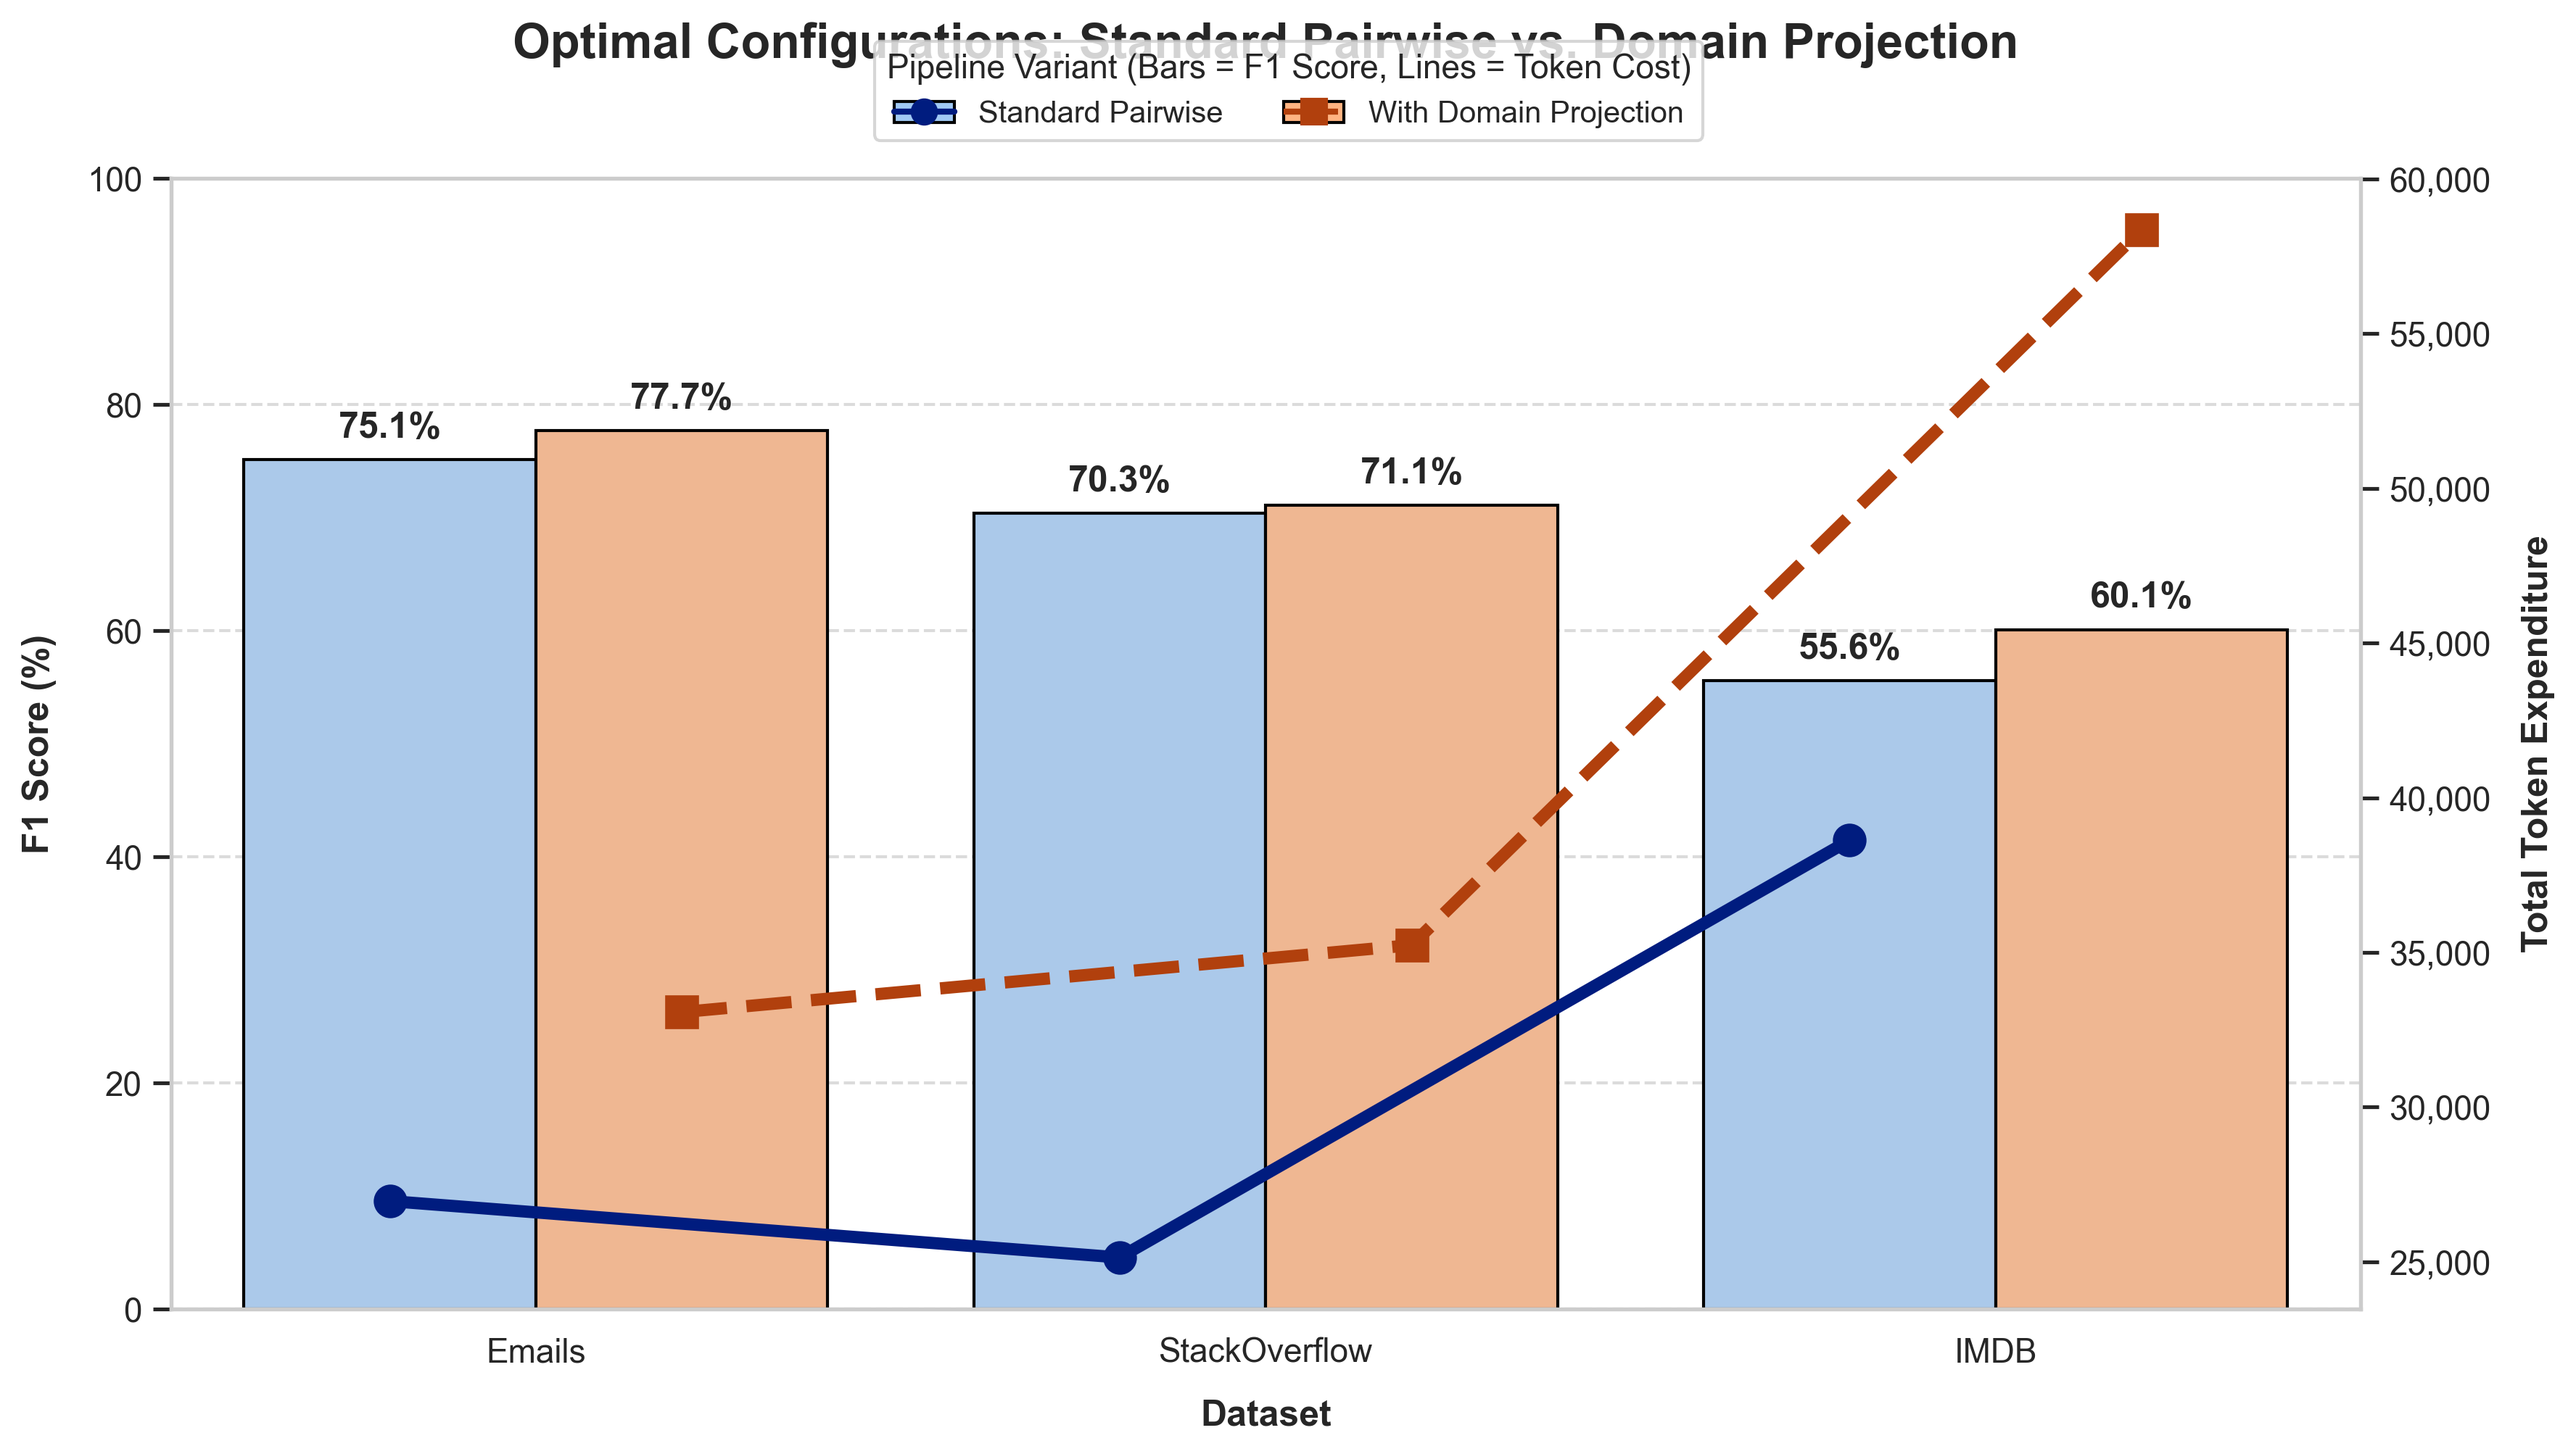
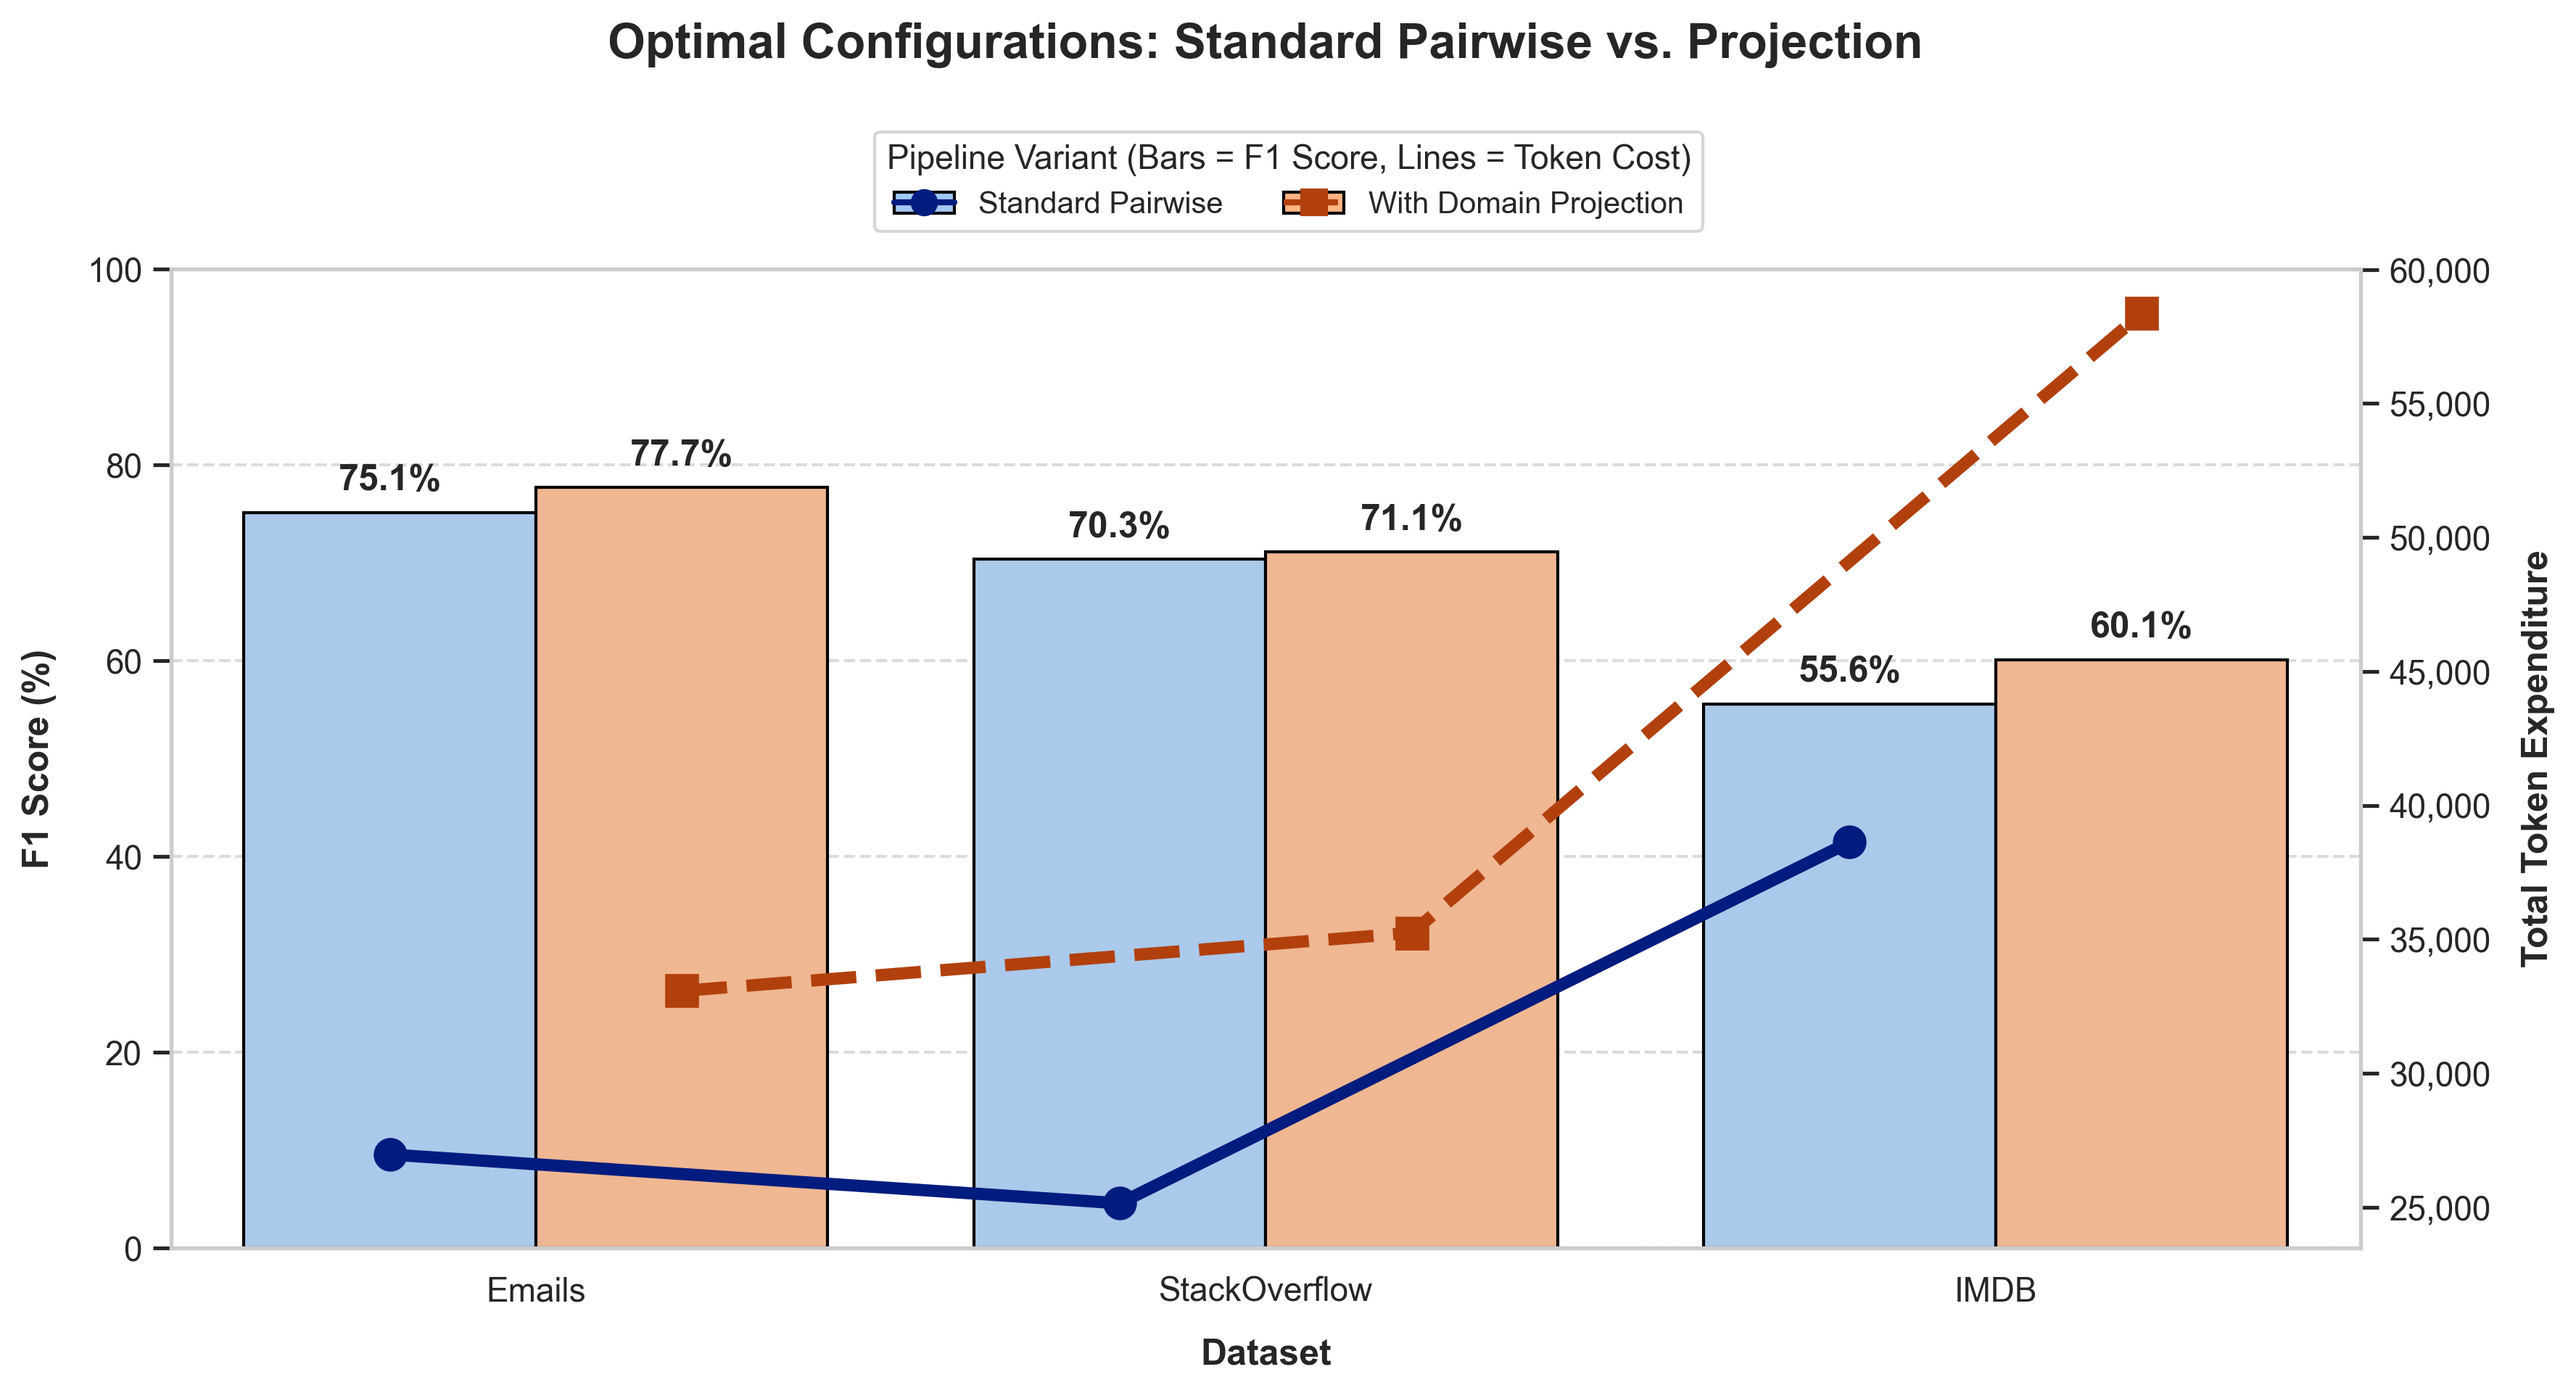
new projection vs no projection

diff --git a/src/figures/projection_vs_no_projection_visualization.py b/src/figures/projection_vs_no_projection_visualization.py
@@ -118,7 +118,7 @@ fig.legend(
     handles=custom_handles, 
     labels=hue_order, 
     loc='upper center', 
-    bbox_to_anchor=(0.5, 0.95), 
+    bbox_to_anchor=(0.5, .85), # 1. Lowered the legend slightly (was 0.95)
     ncol=2, 
     title='Pipeline Variant (Bars = F1 Score, Lines = Token Cost)', 
     title_fontsize='11', 
@@ -135,9 +135,13 @@ for p in ax1.patches:
                     ha='center', va='bottom', xytext=(0, 5), 
                     textcoords='offset points', fontweight='bold')
 
-plt.title('Optimal Configurations: Standard Pairwise vs. Domain Projection', fontsize=16, fontweight='bold', pad=40)
+# 2. Increased pad to push the title safely above the legend
+plt.title('Optimal Configurations: Standard Pairwise vs. Projection', fontsize=16, fontweight='bold', pad=70)
+
 plt.tight_layout()
-plt.subplots_adjust(top=0.85) 
+
+# 3. Squished the top of the plot down further to make room for the stacked text
+plt.subplots_adjust(top=0.75) 
 
 filepath = 'src/figures/optimal_projection_comparison.png'
 plt.savefig(filepath, dpi=300, bbox_inches='tight')
